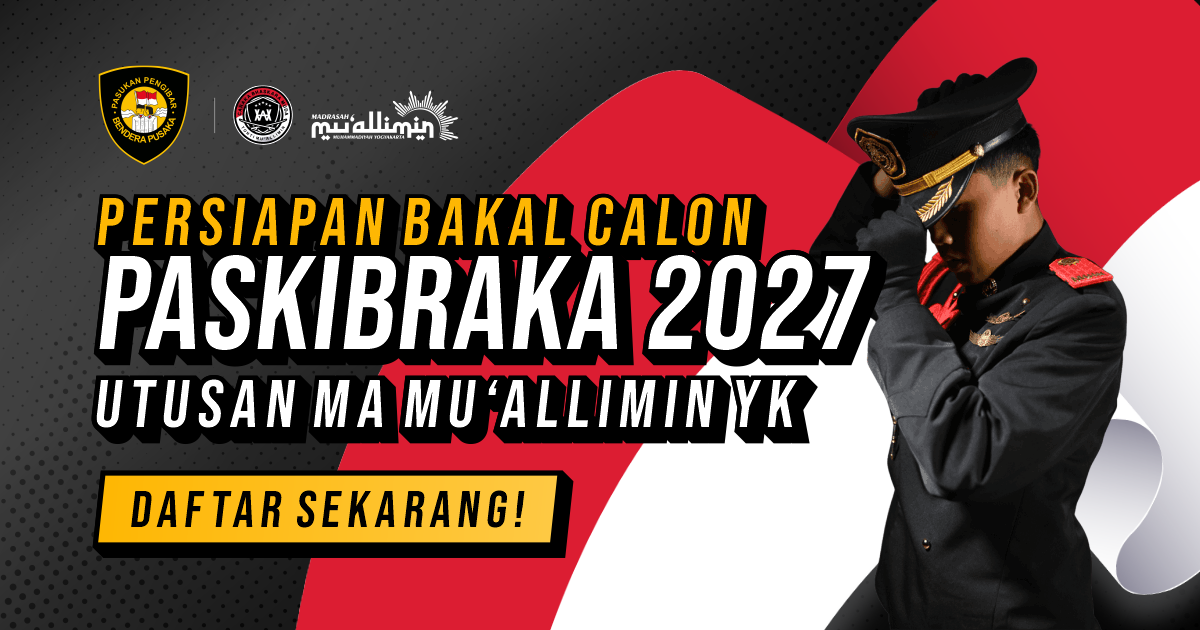
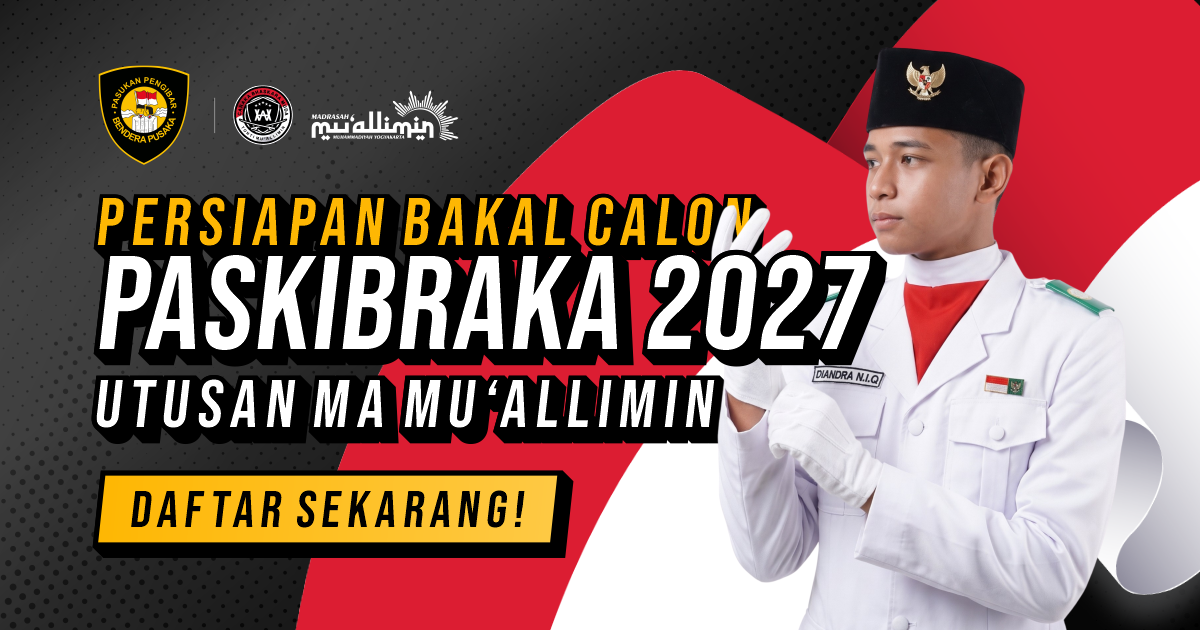
commit

Changed region(s): [[0.5858, 0.0603, 0.9558, 1.0], [0.555, 0.4222, 0.5858, 0.4825], [0.5242, 0.5127, 0.555, 0.5429]]

diff --git a/public/sw.js b/public/sw.js
@@ -1,5 +1,5 @@
 // BACAPASMUIN Service Worker - PWA Offline Caching
-const CACHE_NAME = "bacapasmuin-pwa-v1"
+const CACHE_NAME = "bacapasmuin-pwa-v2"
 
 const STATIC_PRECACHE = [
   "/",
